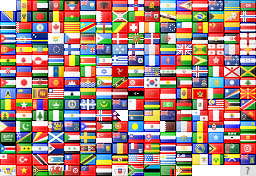
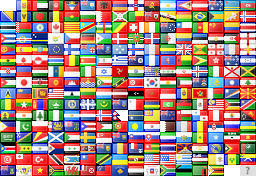
update flags sprite
- include more flags
- adapt css

Changed region(s): [[0.0, 0.7955, 1.0, 1.0], [0.75, 0.5114, 0.8125, 0.5682]]

diff --git a/flags.css b/flags.css
@@ -234,36 +234,38 @@
 .flag-tf {background-position: -128px -143px}
 .flag-tg {background-position: -144px -143px}
 .flag-th {background-position: -160px -143px}
-.flag-tj {background-position: -176px -143px}
-.flag-tk {background-position: -192px -143px}
-.flag-tl {background-position: -208px -143px}
-.flag-tm {background-position: -224px -143px}
-.flag-tn {background-position: -240px -143px}
-.flag-to {background-position: 0 -154px}
-.flag-tr {background-position: -16px -154px}
-.flag-tt {background-position: -32px -154px}
-.flag-tv {background-position: -48px -154px}
-.flag-tw {background-position: -64px -154px}
-.flag-tz {background-position: -80px -154px}
-.flag-ua {background-position: -96px -154px}
-.flag-ug {background-position: -112px -154px}
-.flag-um {background-position: -128px -154px}
-.flag-us {background-position: -144px -154px}
-.flag-uy {background-position: -160px -154px}
-.flag-uz {background-position: -176px -154px}
-.flag-va {background-position: -192px -154px}
-.flag-vc {background-position: -208px -154px}
-.flag-ve {background-position: -224px -154px}
-.flag-vg {background-position: -240px -154px}
-.flag-vi {background-position: 0 -165px}
-.flag-vn {background-position: -16px -165px}
-.flag-vu {background-position: -32px -165px}
-.flag-wales {background-position: -48px -165px}
-.flag-wf {background-position: -64px -165px}
-.flag-ws {background-position: -80px -165px}
-.flag-ye {background-position: -96px -165px}
-.flag-yt {background-position: -112px -165px}
-.flag-za {background-position: -128px -165px}
-.flag-zanzibar {background-position: -144px -165px}
-.flag-zm {background-position: -160px -165px}
-.flag-zw {background-position: -176px -165px}
+.flag-tibet {background-position: -176px -143px}
+.flag-tj {background-position: -192px -143px}
+.flag-tk {background-position: -208px -143px}
+.flag-tl {background-position: -224px -143px}
+.flag-tm {background-position: -240px -143px}
+.flag-tn {background-position: 0 -154px}
+.flag-to {background-position: -16px -154px}
+.flag-tr {background-position: -32px -154px}
+.flag-tt {background-position: -48px -154px}
+.flag-tv {background-position: -64px -154px}
+.flag-tw {background-position: -80px -154px}
+.flag-tz {background-position: -96px -154px}
+.flag-ua {background-position: -112px -154px}
+.flag-ug {background-position: -128px -154px}
+.flag-um {background-position: -144px -154px}
+.flag-us {background-position: -160px -154px}
+.flag-uy {background-position: -176px -154px}
+.flag-uz {background-position: -192px -154px}
+.flag-va {background-position: -208px -154px}
+.flag-vc {background-position: -224px -154px}
+.flag-ve {background-position: -240px -154px}
+.flag-vg {background-position: 0 -165px}
+.flag-vi {background-position: -16px -165px}
+.flag-vn {background-position: -32px -165px}
+.flag-vu {background-position: -48px -165px}
+.flag-wales {background-position: -64px -165px}
+.flag-wf {background-position: -80px -165px}
+.flag-ws {background-position: -96px -165px}
+.flag-xk {background-position: -112px -165px}
+.flag-ye {background-position: -128px -165px}
+.flag-yt {background-position: -144px -165px}
+.flag-za {background-position: -160px -165px}
+.flag-zanzibar {background-position: -176px -165px}
+.flag-zm {background-position: -192px -165px}
+.flag-zw {background-position: -208px -165px}
